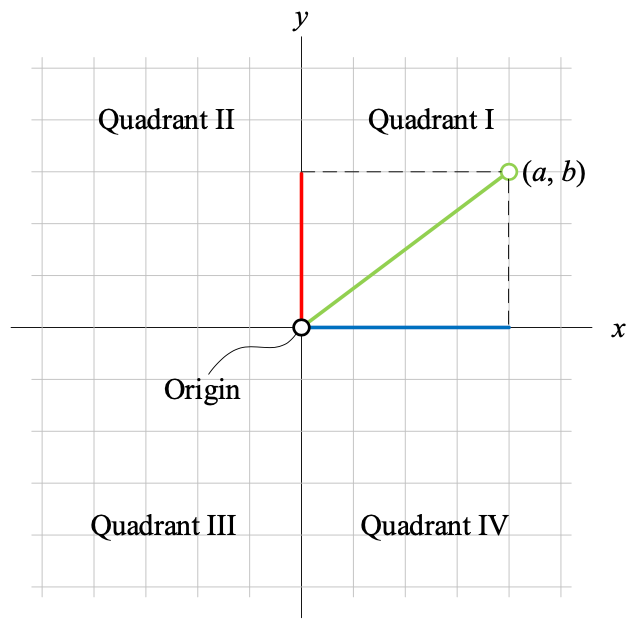
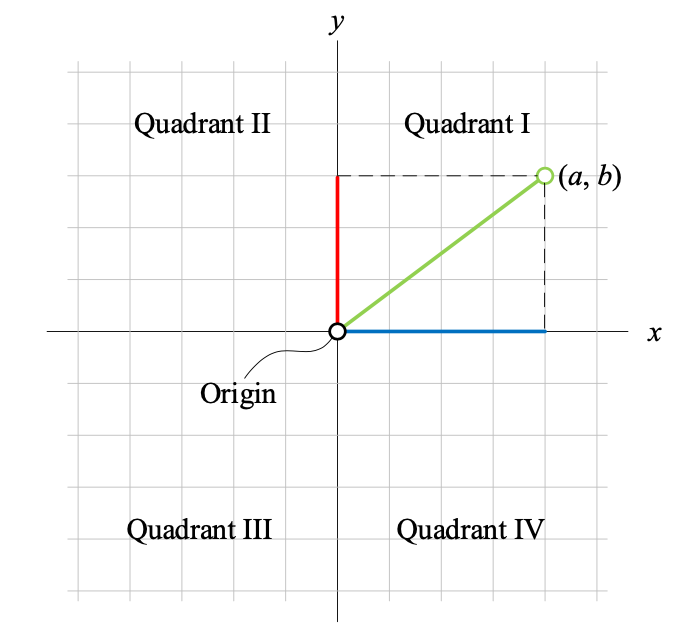
直角坐标系

diff --git a/Math/CoordinateSystem.md b/Math/CoordinateSystem.md
@@ -1,0 +1,21 @@
+**数轴**描述一维空间，两根垂直并相交于原点的实数轴张成二维直角坐标系，即**笛卡尔坐标系**，在二维直角坐标系原点处升起一根垂直平面的数轴便张成了**三维直角坐标系**。
+
+### 笛卡尔坐标系/平面直角坐标系 `Cartesian coordinate system`
+
+**笛卡尔坐标系**是两根相交于**原点**（origin）相互垂直的实数轴，也叫**平面直角坐标系**，记作 $\mathbb{R}^2$ 。
+
+横轴常被称作 $x$ 轴，纵轴常被称作 $y$ 轴。横轴和纵轴将 $xy$ 分成四个象限，象限不包括坐标轴。
+
+平面上的点可以表示为坐标 $(a, b)$，$a$ 表示横坐标，$b$ 表示纵坐标。
+
+<img src="./_Resources/CartesianCoordinateSystem.png" style="zoom:30%;" />
+
+平面直角坐标系中，给定如下两条直线
+$$
+\begin{array}{lcl}
+ax + by + c = 0 \\
+\alpha x + \beta y + \gamma = 0
+\end{array}
+$$
+当两条直线斜率相乘为 $-1$ 时，两者相互垂直；斜率相同时，两者平行或重合。
+

diff --git a/Math/Derivative.md b/Math/Derivative.md
@@ -1,0 +1,11 @@
+## 导数 `Derivative`
+
+### 函数极限
+
+设函数 $f(x)$ 在点 $a$ 的某一个**去心邻域**内有定义，如果存在常数 $C$，对于任意给定正数 $\varepsilon$，不管它多小，总存在正数 $\delta$，使得 $x$ 满足不等式 $0 < |x - a| < \delta$ 时，对应函数值 $f(x)$ 都满足 $|f(x) - C| < \varepsilon$。常数 $C$ 就是函数 $f(x)$ 当 $x \to a$ 时的**极限**，记作：
+$$
+\lim_{x \to a}f(x) = C
+$$
+**邻域**
+
+邻域是一个特殊的开区间，点 $a$ 的 $h(h > 0)$ 邻域满足 $a - h < x < a + h$。$a$ 为中心

diff --git a/Math/数学要素.md b/Math/数学要素.md
@@ -10,7 +10,7 @@
 
 
 
-**数轴**描述一维空间，两根垂直并相交于原点的数轴张成二维直角坐标系，即**笛卡尔坐标系**，在二维直角坐标系原点处升起一根垂直平面的数轴便张成了**三维直角坐标系**。
+
 
 
 
